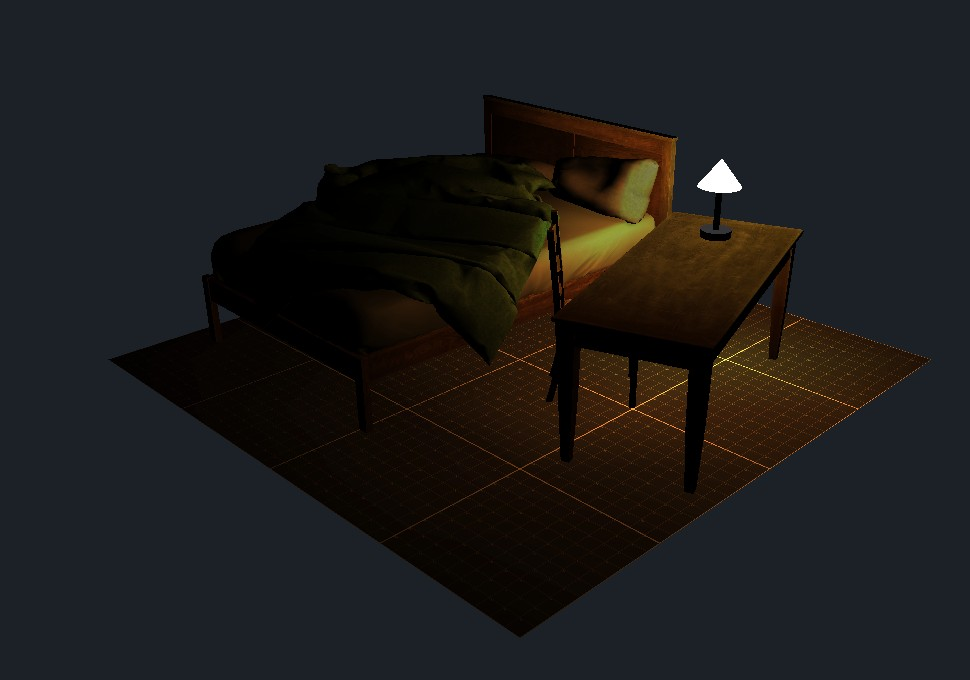
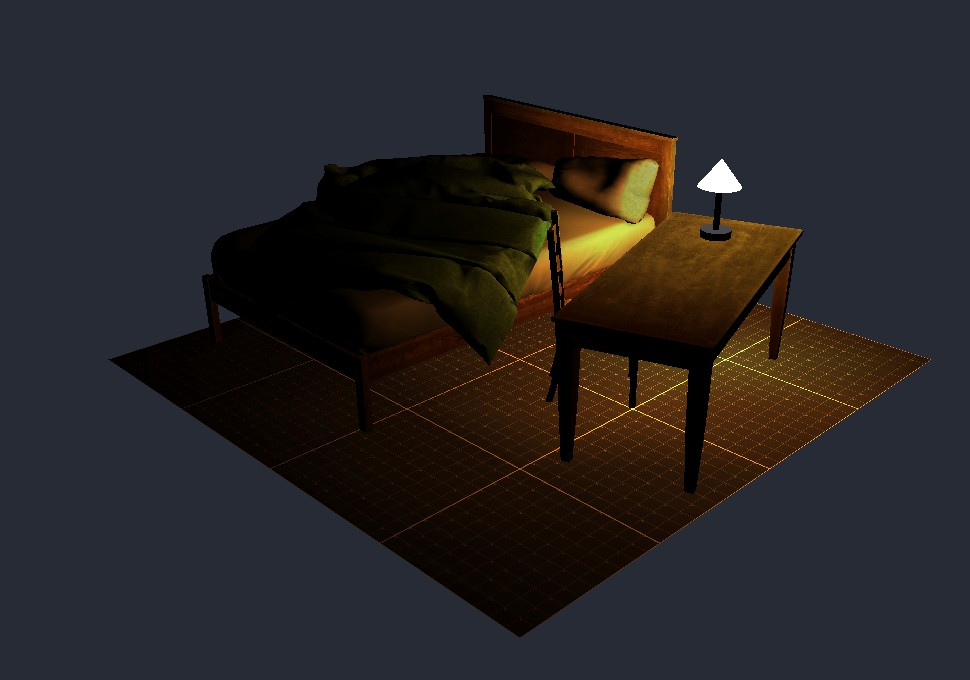
Hero text with master at SUPSI, remove preloader, brighter CG image

Changed region(s): [[0.5258, 0.1544, 0.8351, 0.4632], [0.5876, 0.4632, 0.9278, 0.7103], [0.4948, 0.4941, 0.5876, 0.6176]]

diff --git a/src/App.jsx b/src/App.jsx
@@ -61,14 +61,14 @@ function App() {
         
         {/* HERO SECTION */}
         <div className="hero grid md:grid-cols-2 items-center pt-10 xl:gap-0 gap-6 grid-cols-1">
-          <div className="animate__animated animate__fadeInUp animate__delay-3s text-white">
+          <div className="animate__animated animate__fadeInUp text-white">
             
             <h1 className="text-5xl font-bold mb-6">
               <ShinyText text="Hi I'm Alessio Gervasini" speed={3} />
             </h1>
             
             <BlurText 
-              text="Passionate about Artificial Intelligence. Beyond a strong interest in image recognition, object detection." 
+              text="Master's student at SUPSI in Zurich and Lugano, passionate about Artificial Intelligence, with a strong interest in image recognition and object detection." 
               delay={150} 
               animateBy="words" 
               className="mb-6" 
@@ -90,7 +90,7 @@ function App() {
             </div>
           </div>
 
-          <div className="md:ml-auto flex justify-center animate__animated animate__fadeInUp animate__delay-4s">
+          <div className="md:ml-auto flex justify-center animate__animated animate__fadeInUp">
             {/* MODIFICATA LA PROP NAME PER ANDARE SU DUE RIGHE */}
             <ProfileCard 
              name={

diff --git a/src/main.jsx b/src/main.jsx
@@ -3,7 +3,6 @@ import { createRoot } from 'react-dom/client'
 import './index.css'
 import App from './App.jsx'
 import Navbar from './components/Navbar.jsx'
-import PreLoader from './components/PreLoader.jsx'
 import "animate.css"
 import AOS from 'aos';
 import 'aos/dist/aos.css'; // You can also use <link> for styles
@@ -12,7 +11,6 @@ AOS.init();
 
 createRoot(document.getElementById('root')).render(
   <StrictMode>
-    <PreLoader/>
     <div className = "container mx-auto px-6">
       <Navbar />
       <App />
